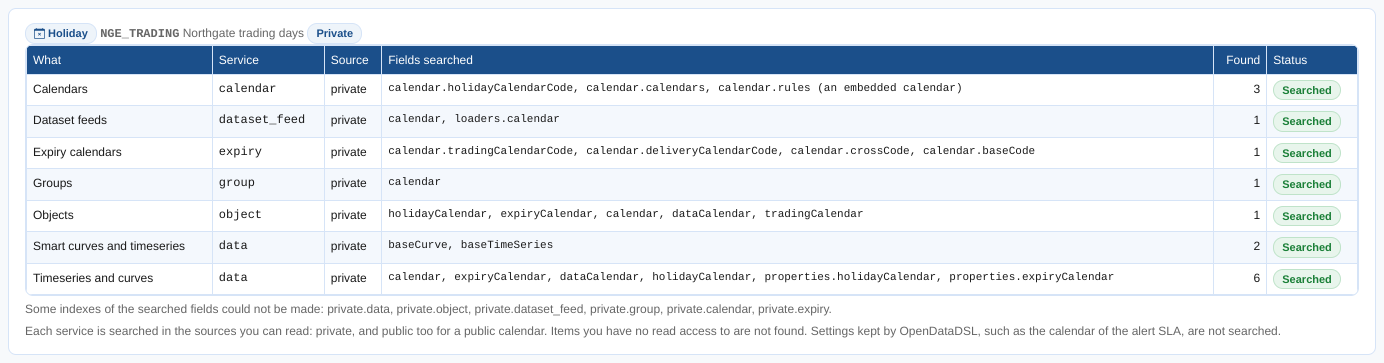
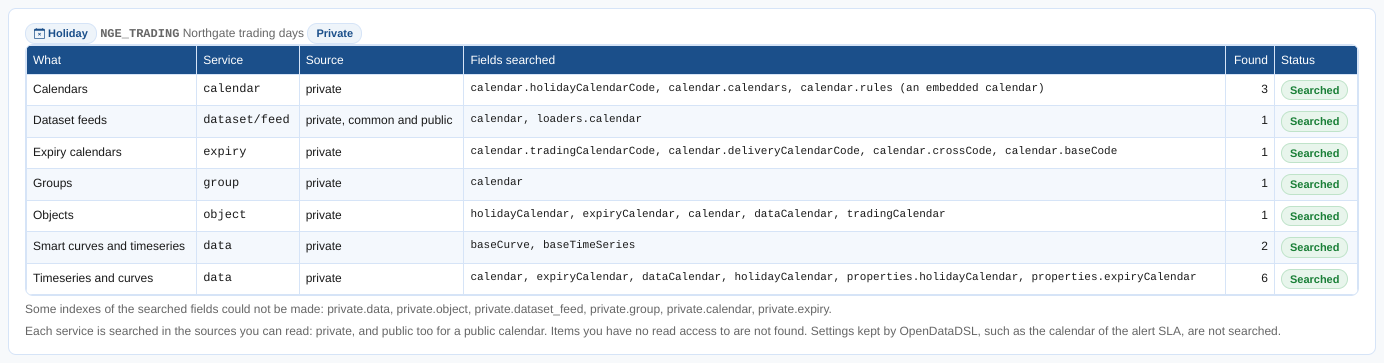
Calendar usage

diff --git a/docs/public/insights/calendar-usage-across-services.md b/docs/public/insights/calendar-usage-across-services.md
@@ -82,12 +82,12 @@ The report asks each service for the items that name the calendar, with a filter
 |-|-|-|
 | `data` | Timeseries, curves, smart, event and composed data | `calendar` (not the DAILY calendar of a curve's own dates), `expiryCalendar`, `dataCalendar`, `holidayCalendar`, `properties.holidayCalendar`, `properties.expiryCalendar` |
 | `object` | Objects such as products | `holidayCalendar`, `expiryCalendar`, `calendar`, `dataCalendar`, `tradingCalendar` |
-| `dataset_feed` | Dataset feeds | `calendar`, `loaders.calendar` |
+| `dataset` (`dataset/v1/feed`) | The dataset feeds of the datasets you monitor, private, common and public | `calendar`, `loaders.calendar` |
 | `group` | Groups, such as curve build groups | `calendar` |
 | `calendar` | Intraday, monthly, weekly, combined and holiday calendars | `calendar.holidayCalendarCode`, `calendar.calendars`, a holiday calendar embedded as a rule |
 | `expiry` | Expiry and financial expiry calendars | `calendar.tradingCalendarCode`, `calendar.deliveryCalendarCode`, `calendar.crossCode`, `calendar.baseCode` |
 
-Private items are always searched; public items too when the calendar is public (dataset feeds and groups are private only). Datasets are not searched one by one: a dataset's deliveries are expected on the days of its feed's calendar, so the feed stands for all its datasets. With **Include indirect use**, the same search runs for each calendar and expiry calendar found (up to three levels and 40 calendars), and then the smart curves (`baseCurve`) and smart timeseries (`baseTimeSeries`) built on the curves and timeseries found are added (up to four levels). At most 10,000 items of a service are listed.
+Private items are always searched; public items too when the calendar is public. Groups are private only, and dataset feeds are searched in one request whatever their source. Only the feeds of the datasets you monitor are found. Datasets are not searched one by one: a dataset's deliveries are expected on the days of its feed's calendar, so the feed stands for all its datasets. With **Include indirect use**, the same search runs for each calendar and expiry calendar found (up to three levels and 40 calendars), and then the smart curves (`baseCurve`) and smart timeseries (`baseTimeSeries`) built on the curves and timeseries found are added (up to four levels). At most 10,000 items of a service are listed.
 
 :::caution
 The report only finds what you can read: items in services or sources your security policies do not let you read are not counted. A count of 0 is not proof that nothing in other teams' data uses the calendar. Settings kept by OpenDataDSL for your company, such as the calendar of your alert SLA, are not searched.
